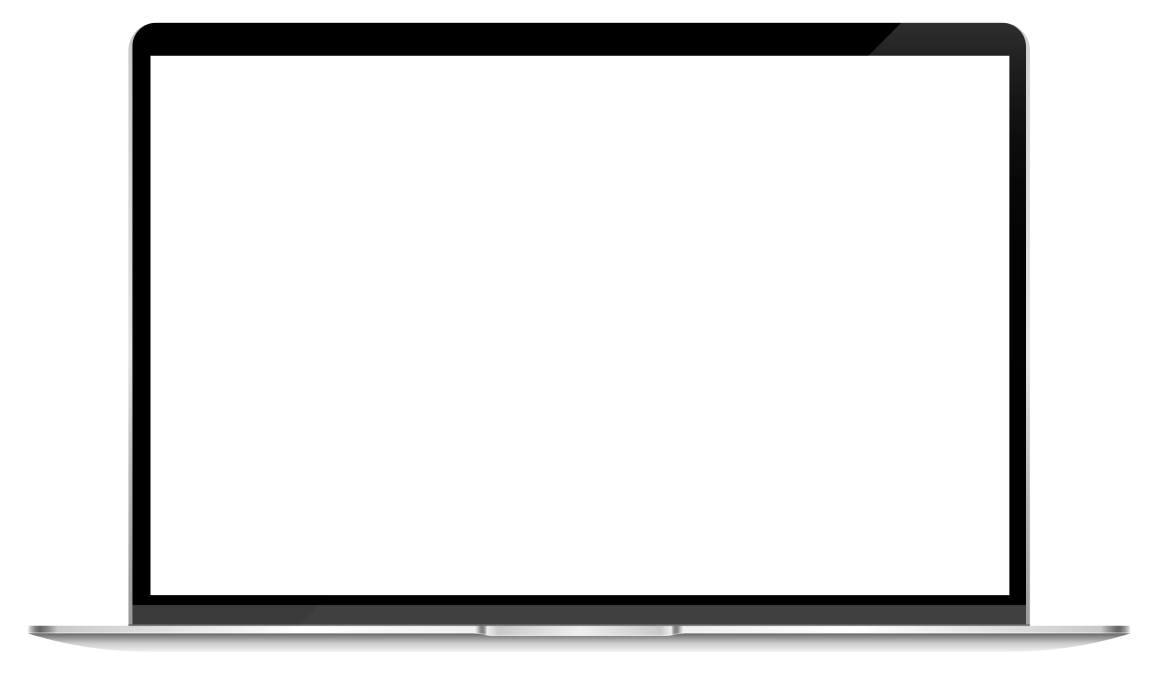
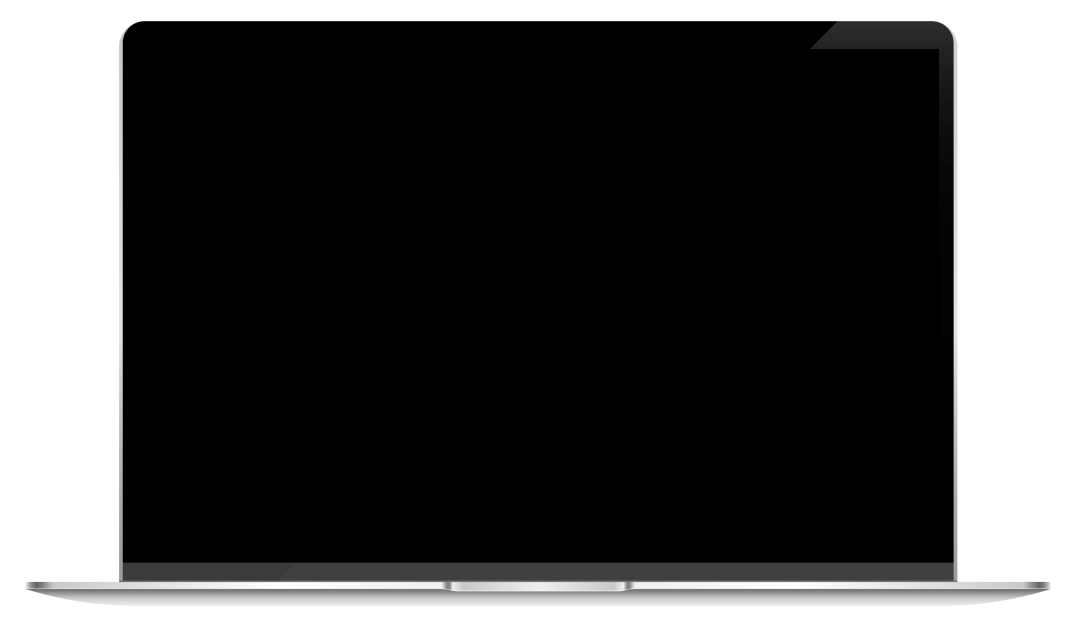
update

diff --git a/src/components/Project/Future-project.tsx b/src/components/Project/Future-project.tsx
@@ -7,27 +7,45 @@ const FutureProject = () => {
         {" "}
         <FormattedMessage id="project.future.header" />
       </h1>
-      <img src="/images/future_project/wallet.gif" className="sm:w-[500px] sm:h-[604px] mx-auto" alt="" />
-      <div className=" flex sm:flex-row flex-col  sm:space-y-0 space-y-3 sm:space-x-3 px-8 text-justify">
-        <div className=" sm:h-auto h-[230px] sm:w-1/2 flex flex-col justify-around rounded-[36px] bg-gradient-to-b from-[#CC00FF] to-[#320071] p-7 sm:p-12">
-          <div className=" flex flex-col ">
-            <h1 className=" text-[16px] sm:text-[36px] font-black text-transparent textgradient-yellow ">
-              <FormattedMessage id="project.future.wallet.header" />
-            </h1>
-            <div className=" flex items-center justify-center w-full">
-              <img
-                src="/images/future_project/wallet.png"
-                className=" sm:w-auto w-[65px] h-[80px] sm:h-auto"
-                alt=""
-              />
+
+      <div className=" flex flex-col  sm:space-y-5 space-y-3 px-8 text-justify">
+      <img
+            src="/images/future_project/wallet.gif"
+            
+            className=" sm:hidden"
+            alt=""
+          />
+        <div className=" sm:h-auto h-[230px]  flex flex-row justify-around rounded-[36px] bg-gradient-to-b from-[#CC00FF] to-[#320071] p-7 sm:p-12">
+          <img
+            src="/images/future_project/wallet.gif"
+            
+            className="sm:w-[500px] sm:h-[604px] mx-auto sm:block hidden"
+            alt=""
+          />
+          <div className=" flex flex-col justify-center">
+            <div className=" flex flex-row justify-center items-center ">
+              <h1 className=" text-[16px] sm:text-[36px] font-black text-transparent textgradient-yellow ">
+                <FormattedMessage id="project.future.wallet.header" />
+              </h1>
+              <div className=" flex items-center justify-center w-full">
+                <img
+                  src="/images/future_project/wallet.png"
+                  className=" sm:w-auto w-[65px] h-[80px] sm:h-auto"
+                  alt=""
+                />
+              </div>
             </div>
+            <p className=" text-[13px] sm:text-[20px] font-bold">
+              <FormattedMessage id="project.future.wallet.description" />
+            </p>
           </div>
-          <p className=" text-[13px] sm:text-[20px] font-bold">
-            <FormattedMessage id="project.future.wallet.description" />
-          </p>
         </div>
-        <div className="  sm:h-auto h-[230px]  sm:w-1/2 flex flex-col justify-around sm:justify-end rounded-[36px] bg-gradient-to-b from-[#CC00FF] to-[#320071] p-7   sm:p-12">
-          <div className=" flex flex-col ">
+        <img src="/images/future_project/chain-diagram.png" className="" alt="" />
+        <div className="  sm:h-auto h-[230px]   flex flex-row justify-around sm:justify-end rounded-[36px] bg-gradient-to-b from-[#CC00FF] to-[#320071] p-7   sm:p-12">
+       
+          <div className=" flex flex-col justify-center">
+
+          <div className=" flex flex-col  ">
             <h1 className=" text-[16px] sm:text-[36px] font-black text-transparent textgradient-yellow ">
               <FormattedMessage id="project.future.chain.header" />
             </h1>
@@ -42,9 +60,10 @@ const FutureProject = () => {
           <p className=" text-[13px] sm:text-[20px] font-bold sm:mt-[70px]">
             <FormattedMessage id="project.future.chain.description" />
           </p>
+          </div>
+          <img src="/images/future_project/chain-diagram.png" className="sm:block hidden" alt="" />
         </div>
       </div>
-    
     </div>
   );
 };

diff --git a/src/components/Video.tsx b/src/components/Video.tsx
@@ -1,7 +1,21 @@
 const Video = () => {
   return (
-    <div className="bg-[url('/images/video-bg.png')] bg-cover sm:h-[795px] mix-blend-overlay flex items-center justify-center p-10 sm:p-5">
+    <div className="bg-[url('/images/video-bg.png')] bg-cover sm:h-[795px] mix-blend-overlay relative flex items-center justify-center p-10 sm:p-5">
+      {/* https://storage.googleapis.com/geometric-rex-343406.appspot.com/Video/Sandora%20Wallet.mp4 */}
         <img src="/images/computer.png" className=" mix-blend-normal" alt="" />
+        <video
+        width="802"
+        height="508"
+        className=" mx-auto absolute top-1/2 left-1/2 translate-x-[-50%] translate-y-[-50%]"
+        controls
+        autoPlay
+        loop
+      >
+        <source
+          src="https://storage.googleapis.com/geometric-rex-343406.appspot.com/Video/Sandora%20Wallet.mp4"
+          type="video/mp4"
+        ></source>
+      </video>
     </div>
   );
 };
